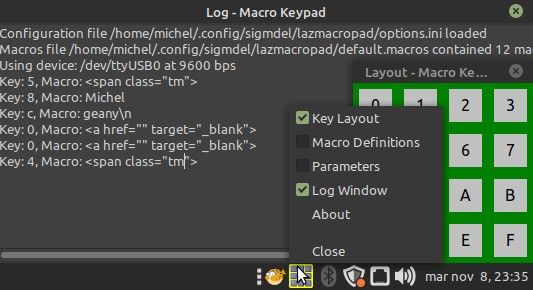
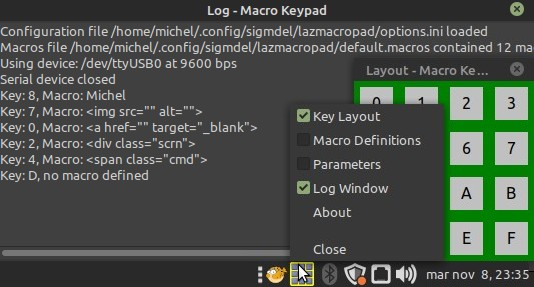
Bump to version 0.7.2

diff --git a/README.md b/README.md
@@ -1,5 +1,5 @@
 # *lazmacropad* - a Macro Keypad
-**Version 0.7.0**
+**Version 0.7.2**
 
 A rudimentary macro keypad based on the Arduino Nano and a simple Free Pascal/Lazarus program that pastes macros into the currently focused desktop application.
 
@@ -23,8 +23,9 @@ As of version 0.6.0, *lazmacropad* is a tray application. This required a major 
   - [3.2. Windows Requirements](#32-windows-requirements)
 - [4. Macros](#4-macros)
 - [5. Ctrl+V vs Shift+Insert](#5-ctrlv-vs-shiftinsert)
-- [6. Acknowledgment](#6-acknowledgment)
-- [7. Licence](#7-licence)
+- [6. Accommodating Different Keypads](#6-accommodating-different-keypads)
+- [7. Acknowledgment](#7-acknowledgment)
+- [8. Licence](#8-licence)
 
 <!-- /TOC -->
 ## 1. Hardware
@@ -37,8 +38,7 @@ Only three items are needed to implement a basic macro keypad:
 
   3. An appropriate USB cable to connect the Nano to a desktop or portable computer.
 
-Basically, any development board with 8 digital I/O pins and a serial port could be used, but the Nano and the readily available 4x4 tactile push button matrix shown below are very easily connected to 
-each other.
+Basically, any development board with 8 digital I/O pins and a serial port could be used, but the Nano and the readily available 4x4 tactile push button matrix shown below are very easily connected to each other.
 
 ![hardware](images/macrokeypad.jpg)
 
@@ -62,11 +62,13 @@ The Lazarus/Free Pascal program translates macro key *messages* from the Nano in
 
 The program also allows for editing, saving and loading macro definitions to suit any number of applications on the desktop.
 
+There is a [post about this project](https://sigmdel.ca/michel/program/fpl/macrokeypad/basic_macrokeypad_fr.html) which contains a rudimentary *user manual*. It is an incomplete draft curently available in French only.
+
 ## 3. Source Code and Prerequisites
 
 [nanoMacroPad.ino](nanoMacroPad/nanoMacroPad.ino) contains the Arduino sketch that runs on the Nano. It requires the [Keypad library](https://playground.arduino.cc/Code/Keypad/) ([GitHub repository](https://github.com/Chris--A/Keypad)) by Mark Stanley and Alexander Brevig. It can be installed with the Arduino IDE library manager.
 
-The source code of the *lazmacropad* object pascal program is in the root directory of the repository. The [images](images/) directory contains the two images shown on this page and the image used as a background of the keyboard layout window. None of these are required to compile the program; the image bitmap is stored in the `keymap.lfm` form resource file. 
+The source code of the *lazmacropad* object pascal program is in the root directory of the repository. The [images](images/) directory contains the two images shown on this page. Neither of these are required to compile the program. 
 
 The [`MouseAndKeyInput`](https://wiki.lazarus.freepascal.org/MouseAndKeyInput) unit is used to generate the desired paste keyboard shortcut. The unit is found in the `lazmouseandkeyinput.lpk` non-visual package. That package is in the `$(LAZARUS)/components/mouseandkeyinput` directory. Load the package file into the Lazarus IDE and compile it. Add `lazmouseandkeyinput` to the `Required Packages` in the `Project Inspector` window (which is opened from the `Project` menu in the IDE).
 
@@ -80,7 +82,7 @@ The `Xtst` library is required by the `lazmouseandkeyinput.lpk` package. In rece
 $ apt install libxtst6
 ```
 
-Unfortunately, the library could not be found in Mint although it was installed because of a missing symbolic link to `libXtst.so`. 
+Although the library was installed in Mint 20.1, it could not be found because of a missing symbolic link to `libXtst.so`. 
 
 ```bash
 $ locate libXtst
@@ -103,7 +105,7 @@ It appears some have been installing the development package `libxtst-dev` in a 
 
 #### 3.1.2. `xKeyInput.pas` Bug Fix
 
-Chances are the program will work. Unfortunately, in some older distributions, an unending sequence of key down events could be generated when a macro is pasted. Those virtual events will continue until a key on the physical keyboard is pressed. As it happens, Mint 20.1 released in January 2021 (an LTS version valid until 2025) and Mint 21 only recently release are among those *older* distributions. The solution to that problem is to change the type of the `is_press` argument in the `XTestFakeKeyEvent` function to `Boolean32` instead of `Boolean`. The function is in the file `$(lazarus)/components/mouseandkeyinput/xkeyinput.pas`. The problem and solution were provided by bytesbites in an August 16, 2016 [forum post](https://forum.lazarus.freepascal.org/index.php/topic,33719.msg218852.html#msg218852). See issues [27819](https://gitlab.com/freepascal.org/lazarus/lazarus/-/issues/27819) and [39964](https://gitlab.com/freepascal.org/lazarus/lazarus/-/issues/39964) in the Lazarus Gitlab repository.
+Chances are the program will work, except in some *older* distributions. An unending sequence of key-down events can be generated by the injected paste key combination. Those virtual key down events will continue until a key on the physical keyboard is pressed. As it happens, Mint 20.1 released in January 2021 (an LTS version valid until 2025) and Mint 21 only recently release are among those *older* distributions. The solution to that problem is to change the type of the `is_press` argument in the `XTestFakeKeyEvent` function to `Boolean32` instead of `Boolean`. The function is in the file `$(lazarus)/components/mouseandkeyinput/xkeyinput.pas`. The problem and solution were provided by bytesbites in an August 16, 2016 [forum post](https://forum.lazarus.freepascal.org/index.php/topic,33719.msg218852.html#msg218852). See issues [27819](https://gitlab.com/freepascal.org/lazarus/lazarus/-/issues/27819) and [39964](https://gitlab.com/freepascal.org/lazarus/lazarus/-/issues/39964) in the Lazarus Gitlab repository.
 
 
 #### 3.1.3. Compiler Versions and Linux Widgetsets
@@ -119,8 +121,7 @@ The source was compiled and tested with two versions of Lazarus in Windows 10:
 - stable: Lazarus 2.2.4 (rev lazarus_2_2_4) FPC 3.2.2 i386-win32-win32/win64
 - trunk: Lazarus 2.3.0 (rev main-2_3-2734-g2f18817fd8) FPC 3.3.1 i386-win32-win32/win64
 
-
-There are cosmetic problems with the macro definition screen with the binary generated with the stable version of the compiler. The maximum column width of the first column is not respected. While there is a work around, it is not included in the source code because that bug has been removed in the trunk version of the compiler. Because it is a bit more difficult to install the trunk version of the compiler, Windows binaries compiled with the trunk version of the compiler are supplied in the [current release](https://github.com/sigmdel/lazmacropad/releases/latest).
+There are cosmetic problems with the macro definition screen with the binary generated with the stable version of the compiler. The maximum column width of the first column is not respected. While there is a work around, it is not included in the source code because that bug has been removed in the trunk version of the compiler. Because it is a bit more difficult to install the trunk version of the compiler, Windows binaries compiled with the trunk version of the compiler are supplied in the [0.6.0 release](https://github.com/sigmdel/lazmacropad/releases/tag/v0.6.0). Binaries for the latest release are upcoming.
 
 Note: The Windows version of the `Serial` unit does have a serial connection status variable. Consequently, there will be a log message about a lost connection when running in Windows. Furthermore, selection of the clipboard paste command used internally by the program is ignored in the Windows version. 
 
@@ -132,26 +133,35 @@ Macros are just (UTF8) strings, but 3 escape sequences are defined:
   -  '\t' will be converted to #9  (TAB)
   -  '\\\\' will be converted to '\\' 
 
-Appending a \n sequence to a macro to be used in the terminal will mean that it will be executed as soon as the corresponding key is pressed. This could be used to start a program. Be careful though, some programs such as the Arduino IDE can grab the serial port and, as a result, *lazmacropad* freezes.
+Appending a \n sequence to a macro to be used in the terminal will mean that it will be executed as soon as the corresponding key is pressed. This could be used to start a program. Be careful, some programs such as the Arduino IDE can grab the serial port and, as a result, *lazmacropad* freezes.
 
 ## 5. Ctrl+V vs Shift+Insert
 
-Two cut-and-paste mechanisms are used in X clients (and in Wayland also?): 
+The GNOME terminal emulator and its forks such as the MATE terminal do not support the Ctrl+C and Ctrl+V key combinations, which makes sense since Ctrl+C is used to cancel a running program. On the other hand, it is possible to paste the primary selection in the terminal with Shift+Insert. Consequently, when the Shift+Insert combination is chosen to paste a macro, *lazmacropad* copies the macro into the primary selection in addition to copying it into the clipboard. It is therefore possible to insert macros when typing in the terminal. This is pretty much the behavior of Geany apps, VSCodium (and probably VS Code), GNote, LibreOffice Writer and the Lazarus IDE editor, which synchronize the two mechanisms by pasting selected text with Ctrl+V or Shift+Insert.
 
-  1. the *clipboard* where the Ctlr+C keyboard short cut explicitly copies selected text (images, etc.) to a buffer and Ctlr+V pastes the content of the buffer at the cursor
-  2. the *primary selection* where there is no buffer, the current selection is pasted with a click of the middle mouse button. The Shift+Insert shortcut can be used instead of a middle mouse button click to paste the selection.
+If a macro ends with the sequence '\n' and the Shift+Insert combination is used for the paste operation then it will be executed as a command if inserted at a terminal prompt. A program could be launched or a script could be executed by pressing a single key. Care must be taken when running programs, as some, such as the Arduino IDE, may seize the serial port and as a result *lazmacropad* freezes.
 
-While these two mechanisms are nominally independent, many applications, such as Geany, VSCodium (and probably VS Code), GNote, LibreOffice Writer and the Lazarus IDE editor, synchronize the two selections and paste selected text with either Ctrl+V or Shift+Insert. Other applications, notably the Mate Terminal, will only work with the primary selection, which makes sense since Ctrl+C is used to cancel a running program. 
+There is no primary selection in Windows but Shift+Insert does work just as Ctrl+V when used from the physical keyboard. So far, injecting Shift+Insert in Windows has not worked. Consequently *lazmacropad* uses Ctrl+V no matter what keyboard shortcut is specified when it is running in Windows.
 
-When the Shift+Insert is used as the paste command, macros will be copied to the clipboard and the primary selection so that *lazmacropad* will behave much as Geany, VSCodium etc. Starting with version 0.3.2 this is done with methods from the LCL TClipboard class so presumably it should work with all Linux widgesets that support the two cut-and-paste mechanism. Warning: this has been tested with the GTK2 widgetset and found to work. So far tests with the Gt5 widgetset reveal that using Shift+Insert will not work.
+## 6. Accommodating Different Keypads
 
-In Windows, only the Ctrl+V paste command is used, no matter which value is assigned to the paste command parameter. 
+With version 0.7.2, *lazmacropad* can handle keypads with up to 36 keys. The number of rows and columns must be specified in the configuration file. Open the log and parameters windows. Make sure that the `Log Level` is set to `Information` or `Debug` and then click on the `Save Configuration` button. The full path of the configuration file, `options.ini`, will be displayed in the log. Close *lazmacropad*, the edit the `[keypad]` section of the configuration file, specifying the number of columns and rows in the key matrix.
 
-## 6. Acknowledgment
+```ini
+[keypad]
+cols=3
+rows=5
+```
+
+When *lazmacropad* is restarted, it will display the correct number of macros and the keymap will be adjusted to reflect the keypad matrix size. 
+
+**While it might not be immediately obvious, it will be necessary to upload the modified version 0.7.2 Arduino sketch running to the microprocessor unless the keypad contains 10 or less keys.** 
+
+## 7. Acknowledgment
 
 There is no shortage of information on all sorts of more or less sophisticated macro key pads. The Brian Lough video, [The Simplest DIY Macro Keypad with Arduino](https://www.youtube.com/watch?v=ORujXGDqG_I&ab_channel=BrianLough) and corresponding [GitHub repository, arduino-switcheroonie,](https://github.com/witnessmenow/arduino-switcheroonie) stands out for its simplicity, but that project is based on an Arduino Pro Micro. The Cristian Bastidas (crixodia) [arduino-nano-macro-keypad](https://github.com/crixodia/arduino-nano-macro-keypad) GitHub repository showed how to achieve something very similar  with a Nano and a Python script on the desktop. This later project is clearly the model for *lazmacropad*.
 
-## 7. Licence
+## 8. Licence
 
 Copyright 2022, Michel Deslierres, no rights reserved.
 
